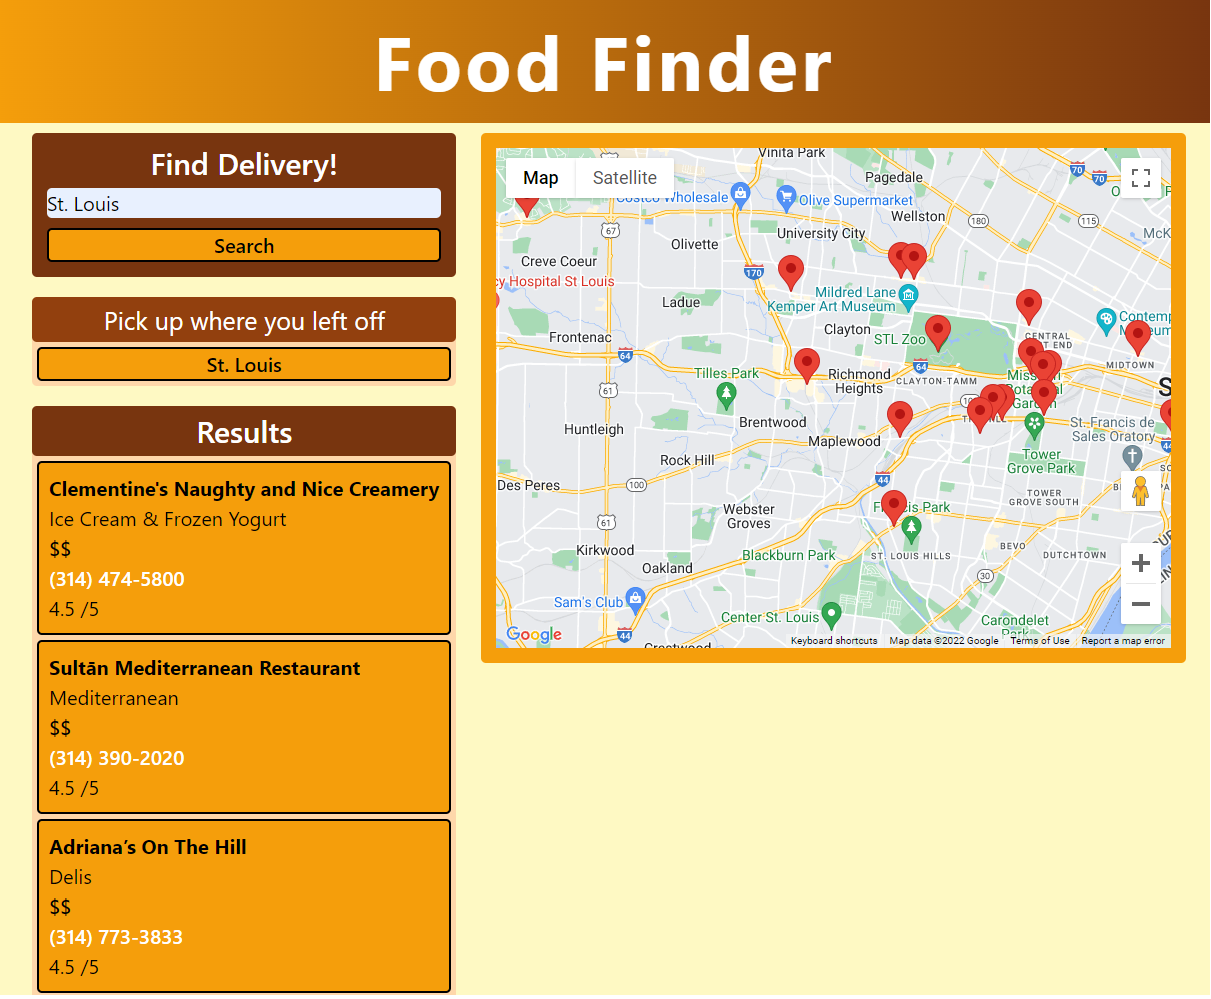
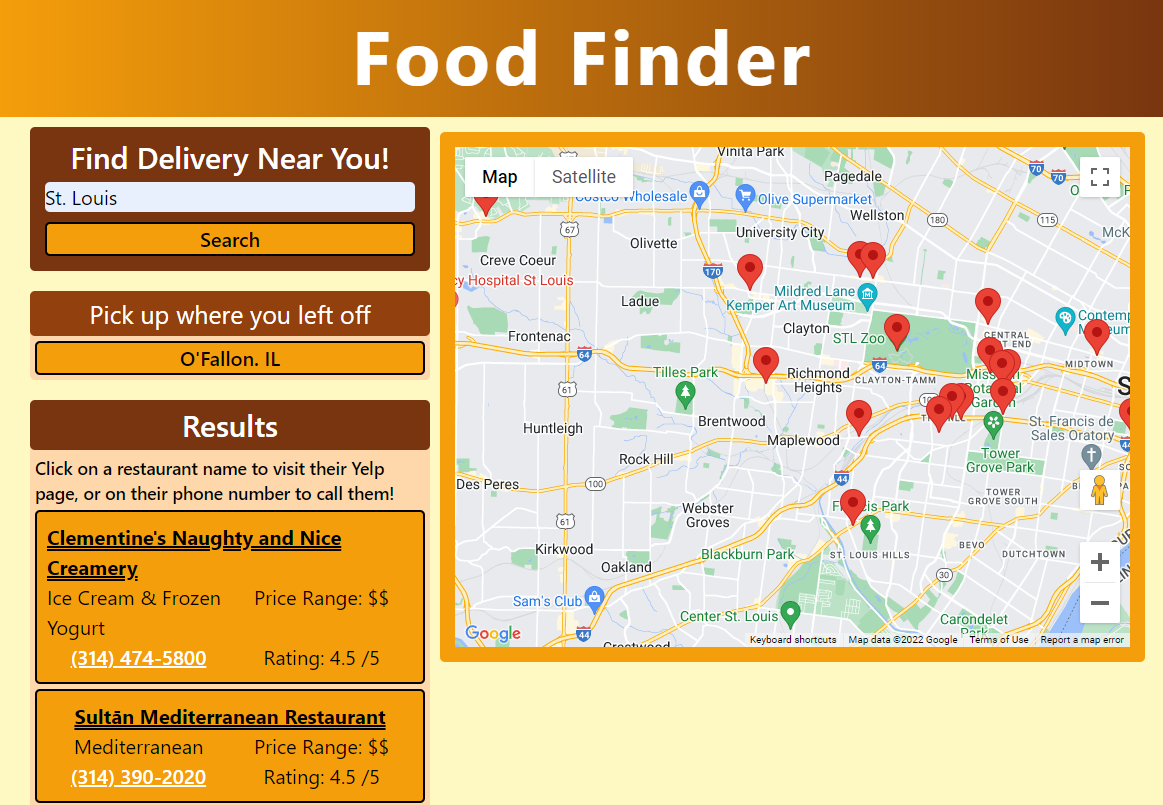
Update README
Add link and new features

diff --git a/README.md b/README.md
@@ -2,17 +2,17 @@
 
 ## Description
 
-Food finder is a simple way to find restaurants that offer delivery near you! The application will display restaunt names, cuisine type, price range, rating, and phone number to find the perfect quick meal solution.
+Food finder is a simple way to find restaurants that offer delivery near you! The application will display restaurant names, cuisine type, price range, rating, and phone number to find the perfect quick meal solution.
 
 As our first group project, we learned how to use branches to work on multiple issues as a team.
 
 ## Usage
 
-First, type your location into the search bar. This can be an address or city. The user's previous search will be saved under "Pick up where you left off" for easy access. Restaurant info will appear in the sidebar and a map with location pins will populate.
+First, type your location into the search bar. This can be an address or city. The user's previous search will be saved under "Pick up where you left off" for easy access. Restaurant info will appear in the sidebar and a map with location pins will populate. Clicking on the restaurant name will open a new tab with Yelp reviews. Clicking on a phone number will call the restaurant.
 
 ![Food finder webpage](./assets/images/Food-Finder-Mock-Up.png)
 
-The webpage can be viewed at \***\* PUT LINK HERE \*\***
+The webpage can be viewed at [https://63857389528963204b4dc037--startling-biscuit-4e7633.netlify.app/](https://63857389528963204b4dc037--startling-biscuit-4e7633.netlify.app/)
 
 ## Credits
 
